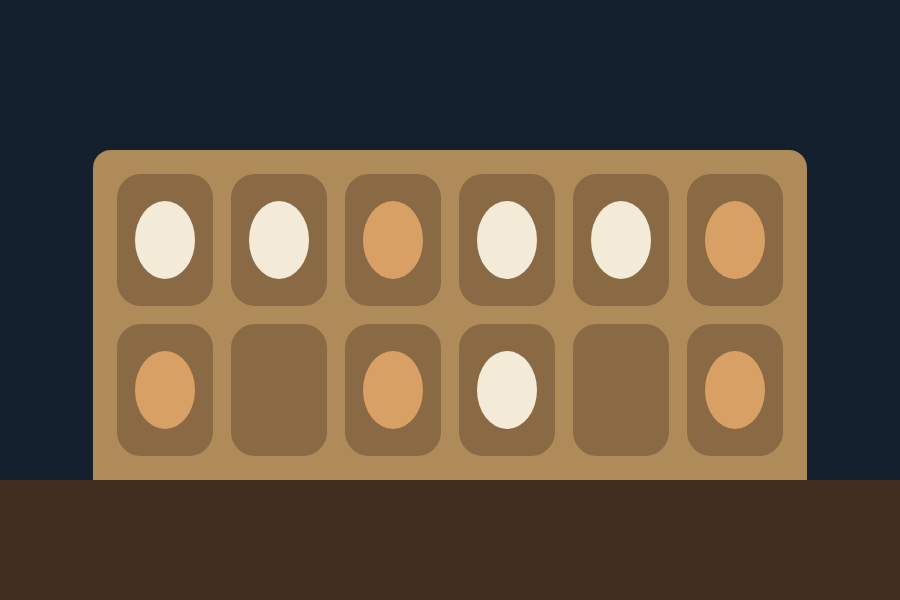
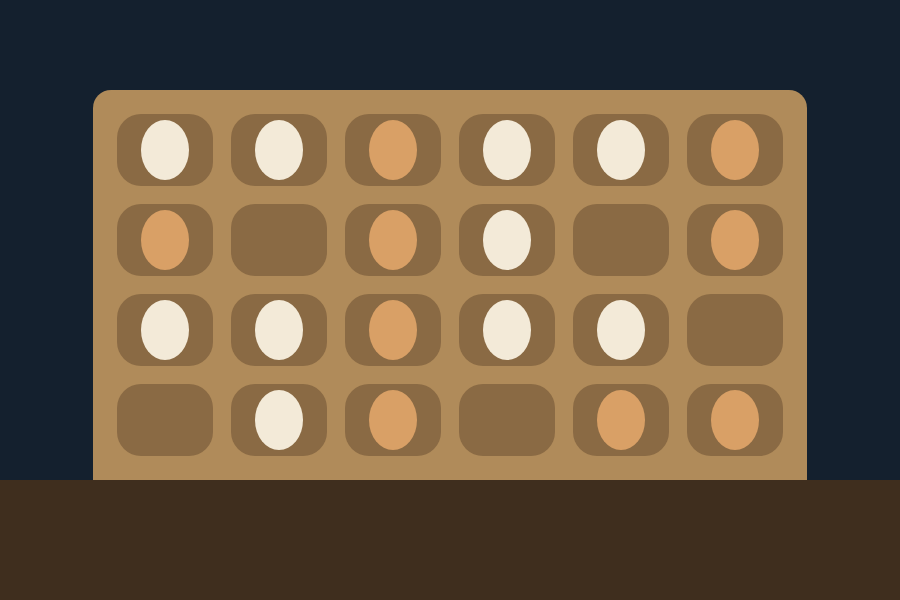
feat: improve levels 9.1 and 8.2 and make the target show bottom isnstead of top

Changed region(s): [[0.0933, 0.15, 0.9022, 0.75]]

diff --git a/frontend/src/app/(app)/cs-comp/_components/BattlePanel.tsx b/frontend/src/app/(app)/cs-comp/_components/BattlePanel.tsx
@@ -168,7 +168,7 @@ export default function BattlePanel({
   }
 
   // Reports the cursor in canvas coordinates, so a student can read a left
-  // and a top off the target instead of guessing them. Colours already come
+  // and a bottom off the target instead of guessing them. Colours already come
   // off the image exactly; this is the other half of that.
   function trackTarget(e: React.MouseEvent<HTMLImageElement>) {
     const at = targetFraction(e);
@@ -177,7 +177,7 @@ export default function BattlePanel({
         ? null
         : {
             x: Math.floor(at.fx * CANVAS_WIDTH),
-            y: Math.floor(at.fy * CANVAS_HEIGHT),
+            y: Math.floor((1 - at.fy) * CANVAS_HEIGHT),
           },
     );
   }
@@ -408,7 +408,7 @@ export default function BattlePanel({
               </span>
 
               {/* Cursor position in the challenge's own coordinate space, so
-                  a left and a top can be read off the target rather than
+                  a left and a bottom can be read off the target rather than
                   guessed. Dim placeholder keeps the header from reflowing
                   when the pointer leaves. */}
               <span
@@ -416,8 +416,8 @@ export default function BattlePanel({
                 style={{ color: cursor ? "#e9f5cd" : "#4d6455" }}
               >
                 {cursor
-                  ? `LEFT ${cursor.x} · TOP ${cursor.y}`
-                  : "LEFT — · TOP —"}
+                  ? `LEFT ${cursor.x} · BOTTOM ${cursor.y}`
+                  : "LEFT — · BOTTOM —"}
               </span>
 
               <div className="flex-1" />

diff --git a/backend/cmd/seedcscomp/levels.go b/backend/cmd/seedcscomp/levels.go
@@ -506,8 +506,8 @@ var levels = []level{
   <div><div class="roof"></div><div class="win"></div><div class="door"></div></div>
   <div><div class="roof"></div><div class="win"></div><div class="door"></div></div>
 </div>`, scaffold: `<style>
-  .ground { position: absolute; left: 0; top: 170px; width: 300px; height: 30px; background: #24422f }
-  .house { position: absolute; left: 10px; top: 60px; width: 48px; height: 110px; background: #c2705a }
+  .ground { position: absolute; left: 0; bottom: 0; width: 300px; height: 30px; background: #24422f }
+  .house { position: absolute; left: 10px; bottom: 30px; width: 48px; height: 110px; background: #c2705a }
 </style>
 
 <div class="ground"></div>
@@ -545,8 +545,8 @@ var levels = []level{
   <div></div>
   <div></div>
 </div>`, scaffold: `<style>
-  .pallet { position: absolute; left: 100px; top: 176px; width: 100px; height: 24px; background: #4a3a26 }
-  .hook { position: absolute; left: 138px; top: 14px; width: 24px; height: 10px; border-radius: 5px; background: #9aa196 }
+  .pallet { position: absolute; left: 100px; bottom: 0; width: 100px; height: 24px; background: #4a3a26 }
+  .hook { position: absolute; left: 138px; bottom: 176px; width: 24px; height: 10px; border-radius: 5px; background: #9aa196 }
 </style>
 
 <div class="pallet"></div>
@@ -584,7 +584,7 @@ var levels = []level{
   <div class="fan"><div class="head"></div><div class="body"></div></div>
   <div class="fan"><div class="head"></div><div class="body"></div></div>
 </div>`, scaffold: `<style>
-  .pitch { position: absolute; left: 0; top: 170px; width: 300px; height: 30px; background: #2c5e40 }
+  .pitch { position: absolute; left: 0; bottom: 0; width: 300px; height: 30px; background: #2c5e40 }
 </style>
 
 <div class="pitch"></div>
@@ -620,7 +620,7 @@ var levels = []level{
   <div></div><div></div><div></div>
   <div></div><div></div><div></div>
 </div>`, scaffold: `<style>
-  .cabinet { position: absolute; left: 60px; top: 20px; width: 180px; height: 170px; border-radius: 6px; background: #24384d }
+  .cabinet { position: absolute; left: 60px; bottom: 10px; width: 180px; height: 170px; border-radius: 6px; background: #24384d }
 </style>
 
 <div class="cabinet"></div>
@@ -655,7 +655,7 @@ var levels = []level{
     <div></div><div></div><div></div><div></div><div></div>
     <div></div><div></div><div></div><div></div><div></div>
 </div>`, scaffold: `<style>
-  .grass { position: absolute; left: 0; top: 170px; width: 300px; height: 30px; background: #24422f }
+  .grass { position: absolute; left: 0; bottom: 0; width: 300px; height: 30px; background: #24422f }
 </style>
 
 <div class="grass"></div>
@@ -779,7 +779,7 @@ var levels = []level{
 <div class="dashes">
     <div></div><div></div><div></div><div></div><div></div><div></div><div></div><div></div><div></div>
 </div>`, scaffold: `<style>
-  .lot { position: absolute; left: 0; top: 20px; width: 300px; height: 160px; background: #2b3440 }
+  .lot { position: absolute; left: 0; bottom: 20px; width: 300px; height: 160px; background: #2b3440 }
 </style>
 
 <div class="lot"></div>
@@ -851,7 +851,7 @@ var levels = []level{
   <div></div><div></div><div></div><div></div><div></div>
   <div></div><div></div><div></div><div></div><div></div>
 </div>`, scaffold: `<style>
-  .soil { position: absolute; left: 0; top: 150px; width: 300px; height: 50px; background: #3f2e1e }
+  .soil { position: absolute; left: 0; bottom: 0; width: 300px; height: 50px; background: #3f2e1e }
 </style>
 
 <div class="soil"></div>
@@ -897,7 +897,7 @@ var levels = []level{
 <div class="keys r4">
     <div></div><div></div><div></div><div></div><div></div><div></div><div></div>
 </div>`, scaffold: `<style>
-  .case { position: absolute; left: 10px; top: 40px; width: 280px; height: 108px; border-radius: 8px; background: #2b3440 }
+  .case { position: absolute; left: 10px; bottom: 52px; width: 280px; height: 108px; border-radius: 8px; background: #2b3440 }
 </style>
 
 <div class="case"></div>
@@ -958,7 +958,7 @@ var levels = []level{
   <div class="shirt"><div></div></div>
   <div class="shirt"><div></div></div>
 </div>`, scaffold: `<style>
-  .grass { position: absolute; left: 0; top: 186px; width: 300px; height: 14px; background: #24422f }
+  .grass { position: absolute; left: 0; bottom: 0; width: 300px; height: 14px; background: #24422f }
 </style>
 
 <div class="grass"></div>
@@ -1072,7 +1072,7 @@ var levels = []level{
   <div></div>
   <div></div>
 </div>`, scaffold: `<style>
-  .tunnel { position: absolute; left: 0; top: 60px; width: 300px; height: 80px; background: #16283a }
+  .tunnel { position: absolute; left: 0; bottom: 60px; width: 300px; height: 80px; background: #16283a }
 </style>
 
 <div class="tunnel"></div>
@@ -1119,17 +1119,17 @@ var levels = []level{
 
 		{title: "Apartment block", target: `<style>
   .ground { position: absolute; left: 0; top: 190px; width: 300px; height: 10px; background: #24422f }
-  .ledge { position: absolute; left: 62px; top: 14px; width: 176px; height: 8px; background: #2b3440 }
+  .ledge { position: absolute; left: 59px; top: 15px; width: 182px; height: 8px; background: #2b3440 }
   .building {
     position: absolute;
-    left: 70px; top: 22px;
-    width: 160px; height: 168px;
+    left: 67px; top: 23px;
+    width: 166px; height: 167px;
     box-sizing: border-box;
     padding: 10px;
     background: #3a5068;
     display: flex;
     flex-direction: column;
-    gap: 8px;
+    gap: 5px;
   }
   .floor {
     flex: 1;
@@ -1137,23 +1137,28 @@ var levels = []level{
     justify-content: space-between;
     align-items: center;
   }
-  .floor div { width: 20px; height: 22px; background: #ffd166 }
-  .floor div:nth-child(even) { background: #16283a }
-  .floor:nth-child(odd) div:nth-child(3) { background: #4cc9f0 }
+  .floor div { width: 16px; height: 10px; background: #ffd166 }
+  .floor:nth-child(odd) div:nth-child(even) { background: #16283a }
+  .floor:nth-child(even) div:nth-child(odd) { background: #16283a }
+  .floor:nth-child(3n) div:nth-child(4) { background: #4cc9f0 }
   .floor:last-child { align-items: flex-end }
-  .floor:last-child div:nth-child(3) { width: 24px; height: 34px; background: #3f2e1e }
+  .floor:last-child div:nth-child(3) { height: 14px; background: #3f2e1e }
 </style>
 
 <div class="ground"></div>
 <div class="ledge"></div>
 
 <div class="building">
-  <div class="floor"><div></div><div></div><div></div><div></div><div></div></div>
-  <div class="floor"><div></div><div></div><div></div><div></div><div></div></div>
-  <div class="floor"><div></div><div></div><div></div><div></div><div></div></div>
-  <div class="floor"><div></div><div></div><div></div><div></div><div></div></div>
+  <div class="floor"><div></div><div></div><div></div><div></div><div></div><div></div></div>
+  <div class="floor"><div></div><div></div><div></div><div></div><div></div><div></div></div>
+  <div class="floor"><div></div><div></div><div></div><div></div><div></div><div></div></div>
+  <div class="floor"><div></div><div></div><div></div><div></div><div></div><div></div></div>
+  <div class="floor"><div></div><div></div><div></div><div></div><div></div><div></div></div>
+  <div class="floor"><div></div><div></div><div></div><div></div><div></div><div></div></div>
+  <div class="floor"><div></div><div></div><div></div><div></div><div></div><div></div></div>
+  <div class="floor"><div></div><div></div><div></div><div></div><div></div><div></div></div>
 </div>`, scaffold: `<style>
-  .ground { position: absolute; left: 0; top: 190px; width: 300px; height: 10px; background: #24422f }
+  .ground { position: absolute; left: 0; bottom: 0; width: 300px; height: 10px; background: #24422f }
 </style>
 
 <div class="ground"></div>
@@ -1164,8 +1169,8 @@ var levels = []level{
   .table { position: absolute; left: 0; top: 160px; width: 300px; height: 40px; background: #3f2e1e }
   .carton {
     position: absolute;
-    left: 31px; top: 50px;
-    width: 238px; height: 110px;
+    left: 31px; top: 30px;
+    width: 238px; height: 130px;
     box-sizing: border-box;
     padding: 8px;
     border-radius: 6px 6px 0 0;
@@ -1183,9 +1188,9 @@ var levels = []level{
     justify-content: center;
     align-items: center;
   }
-  .cup div { width: 20px; height: 26px; border-radius: 50%; background: #f3ead8 }
+  .cup div { width: 16px; height: 20px; border-radius: 50%; background: #f3ead8 }
   .cup:nth-child(3n) div { background: #d9a066 }
-  .row:nth-child(2) .cup:nth-child(odd) div { background: #d9a066 }
+  .row:nth-child(even) .cup:nth-child(odd) div { background: #d9a066 }
 </style>
 
 <div class="table"></div>
@@ -1207,8 +1212,24 @@ var levels = []level{
     <div class="cup"></div>
     <div class="cup"><div></div></div>
   </div>
+  <div class="row">
+    <div class="cup"><div></div></div>
+    <div class="cup"><div></div></div>
+    <div class="cup"><div></div></div>
+    <div class="cup"><div></div></div>
+    <div class="cup"><div></div></div>
+    <div class="cup"></div>
+  </div>
+  <div class="row">
+    <div class="cup"></div>
+    <div class="cup"><div></div></div>
+    <div class="cup"><div></div></div>
+    <div class="cup"></div>
+    <div class="cup"><div></div></div>
+    <div class="cup"><div></div></div>
+  </div>
 </div>`, scaffold: `<style>
-  .table { position: absolute; left: 0; top: 160px; width: 300px; height: 40px; background: #3f2e1e }
+  .table { position: absolute; left: 0; bottom: 0; width: 300px; height: 40px; background: #3f2e1e }
 </style>
 
 <div class="table"></div>
@@ -1252,7 +1273,7 @@ var levels = []level{
   <div class="row"><div><div></div></div><div><div></div></div><div><div></div></div><div><div></div></div><div><div></div></div><div><div></div></div><div><div></div></div><div><div></div></div></div>
   <div class="row"><div><div></div></div><div><div></div></div><div><div></div></div><div><div></div></div><div><div></div></div><div><div></div></div><div><div></div></div><div><div></div></div></div>
 </div>`, scaffold: `<style>
-  .board { position: absolute; left: 70px; top: 20px; width: 160px; height: 160px; background: #3f2e1e }
+  .board { position: absolute; left: 70px; bottom: 20px; width: 160px; height: 160px; background: #3f2e1e }
 </style>
 
 <div class="board"></div>
@@ -1302,7 +1323,7 @@ var levels = []level{
     <div class="week"><div></div><div></div><div></div><div></div><div></div><div></div><div></div></div>
   </div>
 </div>`, scaffold: `<style>
-  .page { position: absolute; left: 39px; top: 14px; width: 222px; height: 172px; background: #e9f5cd }
+  .page { position: absolute; left: 39px; bottom: 14px; width: 222px; height: 172px; background: #e9f5cd }
 </style>
 
 <div class="page"></div>
@@ -1364,7 +1385,7 @@ var levels = []level{
     <div class="wheels"><div></div><div></div></div>
   </div>
 </div>`, scaffold: `<style>
-  .rail { position: absolute; left: 0; top: 170px; width: 300px; height: 4px; background: #9aa196 }
+  .rail { position: absolute; left: 0; bottom: 26px; width: 300px; height: 4px; background: #9aa196 }
 </style>
 
 <div class="rail"></div>
@@ -1536,7 +1557,7 @@ var levels = []level{
     <div></div><div></div><div></div><div></div><div></div>
   </div>
 </div>`, scaffold: `<style>
-  .road { position: absolute; left: 0; top: 170px; width: 300px; height: 30px; background: #1d3550 }
+  .road { position: absolute; left: 0; bottom: 0; width: 300px; height: 30px; background: #1d3550 }
 </style>
 
 <div class="road"></div>
@@ -1630,8 +1651,8 @@ var levels = []level{
     <div><div></div></div>
   </div>
 </div>`, scaffold: `<style>
-  .stand { position: absolute; left: 0; top: 40px; width: 300px; height: 100px; background: #1d3550 }
-  .pitch { position: absolute; left: 0; top: 140px; width: 300px; height: 60px; background: #2c5e40 }
+  .stand { position: absolute; left: 0; bottom: 60px; width: 300px; height: 100px; background: #1d3550 }
+  .pitch { position: absolute; left: 0; bottom: 0; width: 300px; height: 60px; background: #2c5e40 }
 </style>
 
 <div class="stand"></div>
@@ -1711,7 +1732,7 @@ var levels = []level{
     <div class="pot"></div>
   </div>
 </div>`, scaffold: `<style>
-  .case { position: absolute; left: 20px; top: 10px; width: 260px; height: 180px; background: #3f2e1e }
+  .case { position: absolute; left: 20px; bottom: 10px; width: 260px; height: 180px; background: #3f2e1e }
 </style>
 
 <div class="case"></div>
@@ -1824,7 +1845,7 @@ var levels = []level{
     <div></div><div></div><div></div><div></div><div></div><div></div><div></div>
   </div>
 </div>`, scaffold: `<style>
-  .board { position: absolute; left: 0; top: 0; width: 300px; height: 200px; background: #123024 }
+  .board { position: absolute; left: 0; bottom: 0; width: 300px; height: 200px; background: #123024 }
 </style>
 
 <div class="board"></div>
@@ -1896,7 +1917,7 @@ var levels = []level{
     <div class="patch"><div></div><div></div><div></div><div></div></div>
   </div>
 </div>`, scaffold: `<style>
-  .quilt { position: absolute; left: 22px; top: 18px; width: 256px; height: 164px; background: #3f2e1e }
+  .quilt { position: absolute; left: 22px; bottom: 18px; width: 256px; height: 164px; background: #3f2e1e }
 </style>
 
 <div class="quilt"></div>

diff --git a/backend/cmd/seedcscomp/main.go b/backend/cmd/seedcscomp/main.go
@@ -125,12 +125,17 @@ func points(level int) int {
 // missing background and an empty border-radius are left off rather than
 // written out, because that is what the target images were drawn from.
 //
-// pretty controls spacing only — the compact form goes into the target
-// document, the spaced form into the starter code a student reads.
+// pretty is the starter code a student reads, the compact form the target
+// document. The starter measures from the bottom, as the editor's cursor
+// readout does; the target keeps top, which lays out the same box.
 func css(r rect, pretty bool) string {
 	var b strings.Builder
 	b.WriteString("left: " + strconv.Itoa(r.x) + "px")
-	b.WriteString("; top: " + strconv.Itoa(r.y) + "px")
+	if pretty {
+		b.WriteString("; bottom: " + strconv.Itoa(200-r.y-r.h) + "px")
+	} else {
+		b.WriteString("; top: " + strconv.Itoa(r.y) + "px")
+	}
 	b.WriteString("; width: " + strconv.Itoa(r.w) + "px")
 	b.WriteString("; height: " + strconv.Itoa(r.h) + "px")
 	if r.bg != "" {
